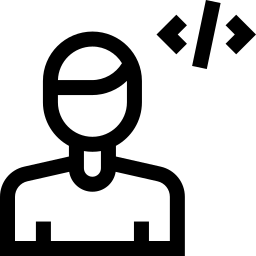
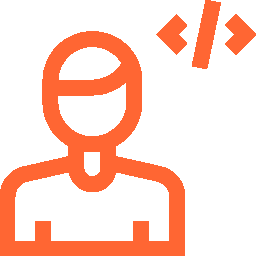
add orange images

Changed region(s): [[0.0, 0.0938, 0.75, 1.0], [0.5938, 0.0, 1.0, 0.2812]]

diff --git a/doc/userdoc/static/css/custom.css b/doc/userdoc/static/css/custom.css
@@ -7,7 +7,7 @@
 }
 div.twocol {
    width: 430px;
-   height: 150px;
+   height: 160px;
    border-top-width: 1px;
    border-top-style: solid;
    border-bottom-width: 1px;
